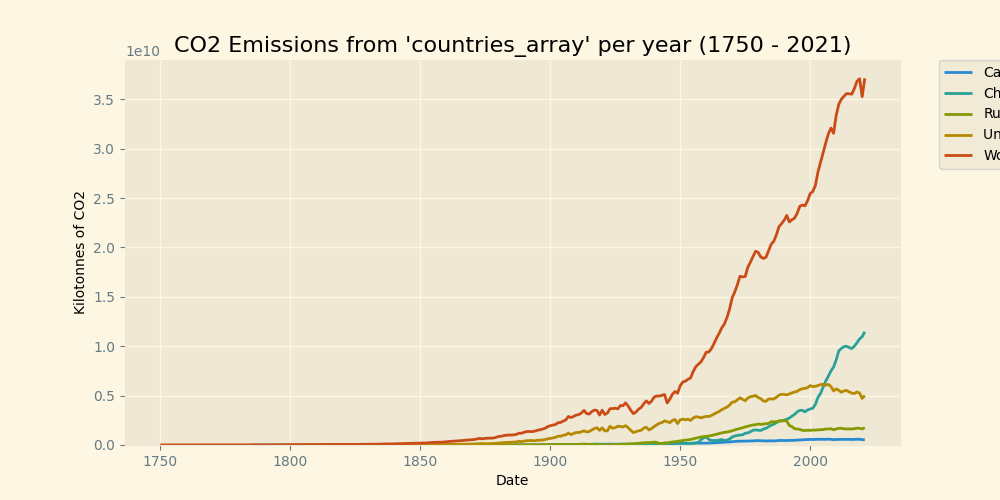
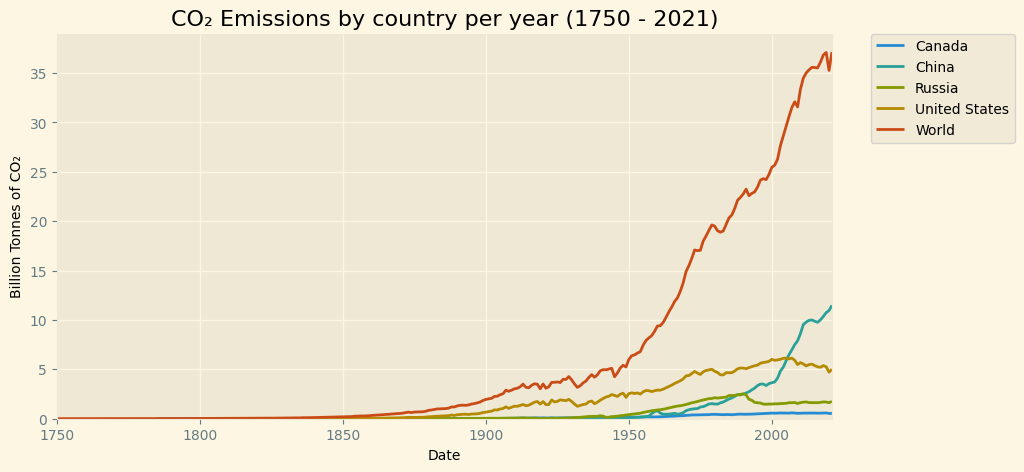
Created the script for methane_emission.py and co2_emission.py that create the pngs.

diff --git a/Database/co2_emission.py b/Database/co2_emission.py
@@ -1,6 +1,7 @@
 import pandas as pd
 import seaborn as sns
 import matplotlib.pyplot as plt
+import matplotlib.ticker as ticker
 
 
 df_co2 = pd.read_csv("./annual-co2-emissions-per-country.csv")
@@ -8,8 +9,8 @@ df_co2 = pd.read_csv("./annual-co2-emissions-per-country.csv")
 countries_array = ['Russia', 'China', 'United States', 'Canada', 'World']
 
 
-
 df_co2_noname = df_co2[['Entity','Year','Annual CO₂ emissions']] 
+
 
 df_co2_final = df_co2_noname[(df_co2_noname['Entity'].isin(countries_array))]
 
@@ -21,24 +22,28 @@ plt.style.use('default')
 with plt.style.context('Solarize_Light2'):
 
 
-  fig,axs = plt.subplots(figsize=(10,5))
+    fig,axs = plt.subplots(figsize=(10,5))
 
-  #plt.xticks(range(1750,2021), range(1750,2021))
+    #plt.xticks(range(1750,2021), range(1750,2021))
 
-  co2_country = sns.lineplot(
-      data=df_co2_final,
-      x='Year',
-      y='Annual CO₂ emissions',
-      hue='Entity'
-  )
-  co2_country.set(
-      xlabel='Date',
-      ylabel='Kilotonnes of CO2',
-      ylim=(0,None),
-      title='''CO2 Emissions from 'countries_array' per year (1750 - 2021)'''
-  )
+    axs.yaxis.set_major_formatter(ticker.FuncFormatter(lambda x, pos: f'{x / 10**9:.0f}'))
 
-  plt.legend(bbox_to_anchor=(1.05, 1), loc='upper left', borderaxespad=0, title="")
-  #plt.legend(title='')
-  
-  fig.savefig('co2_emission.png')
+    co2_country = sns.lineplot(
+        data=df_co2_final,
+        x='Year',
+        y='Annual CO₂ emissions',
+        hue='Entity'
+    )
+
+    co2_country.set(
+        xlabel='Date',
+        ylabel='Billion Tonnes of CO₂',
+        ylim=(0,None),
+        title='''CO₂ Emissions by country per year (1750 - 2021)'''
+    )
+    axs.set_xlim(df_co2_final['Year'].min(), df_co2_final['Year'].max())
+
+    plt.legend(bbox_to_anchor=(1.05, 1), loc='upper left', borderaxespad=0, title="")
+    #plt.legend(title='')
+    
+    fig.savefig('co2_emission.png', bbox_inches='tight')

diff --git a/Database/methane_emission.py b/Database/methane_emission.py
@@ -1,0 +1,45 @@
+import pandas as pd
+import seaborn as sns
+import matplotlib.pyplot as plt
+import matplotlib.ticker as ticker
+
+df_methane = pd.read_csv('./methane-emissions.csv')
+
+countries_array = ['Russia', 'China', 'United States', 'Canada', 'World']
+
+df_methane_noname = df_methane[['Entity','Year','Annual methane emissions']] 
+
+df_methane_final = df_methane_noname[(df_methane_noname['Entity'].isin(countries_array))]
+
+# Creating Graph for comparing Canada All and Canada - Factory
+# df_canada_vs_canada_no_factory
+plt.style.use('default')
+
+with plt.style.context('Solarize_Light2'):
+
+
+  fig,axs = plt.subplots(figsize=(10,5))
+
+  #plt.xticks(range(1750,2021), range(1750,2021))
+
+  axs.yaxis.set_major_formatter(ticker.FuncFormatter(lambda x, pos: f'{x / 10**9:.0f}'))
+
+  ax_canada_vs_canada_no_factory = sns.lineplot(
+      data=df_methane_final,
+      x='Year',
+      y='Annual methane emissions',
+      hue='Entity'
+  )
+  ax_canada_vs_canada_no_factory.set(
+      xlabel='Date',
+      ylabel='Billion Tonnes of Methane',
+      ylim=(0,None),
+      title='''Methane Emissions by country per year (1850 - 2021)'''
+  )
+
+  axs.set_xlim(df_methane_final['Year'].min(), df_methane_final['Year'].max())
+
+  plt.legend(bbox_to_anchor=(1.05, 1), loc='upper left', borderaxespad=0, title="")
+  #plt.legend(title='')
+
+  fig.savefig('methane_emission.png', bbox_inches='tight')
